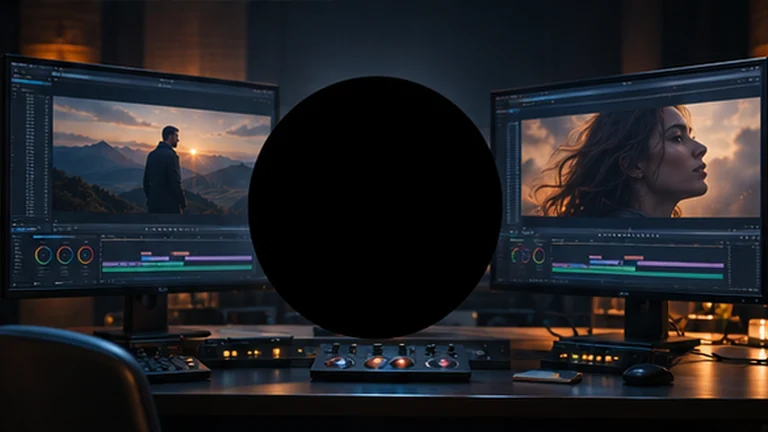
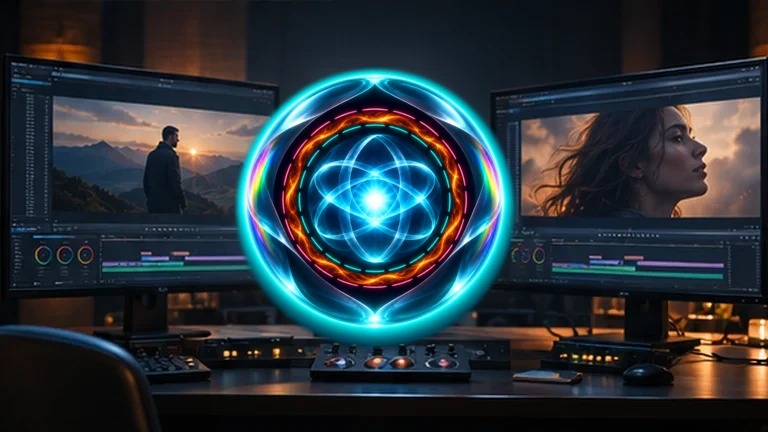
release(Studio): restore YouTube cover and fit Director sphere

Changed region(s): [[0.2812, 0.1505, 0.6875, 0.8125]]

diff --git a/app/src/main/assets/home-inspiration.js b/app/src/main/assets/home-inspiration.js
@@ -464,7 +464,6 @@ function renderQuickStarts(section){
  #homeStudioQuickStarts .quick-start-card:focus-visible{outline:2px solid #c7a0f9;outline-offset:2px}
  #homeStudioQuickStarts .quick-start-thumb{position:relative;aspect-ratio:16/9;min-width:0;min-height:0;overflow:hidden;background:#302447}
  #homeStudioQuickStarts .quick-start-thumb img{display:block;width:100%;height:100%;object-fit:cover}
- #homeStudioQuickStarts .quick-start-thumb .quick-start-orb{position:absolute;inset:48% auto auto 49%;transform:translate(-50%,-50%);width:auto;height:51%;aspect-ratio:1;object-fit:contain;clip-path:circle(49%);mask-image:radial-gradient(circle closest-side,#000 86%,transparent 100%);pointer-events:none}
  #homeStudioQuickStarts .quick-start-body{display:grid;gap:8px;min-width:0;padding:18px;overflow-wrap:anywhere}
  #homeStudioQuickStarts .quick-start-body strong{font-size:17px}
  #homeStudioQuickStarts .quick-start-body span{font-size:12px;line-height:1.6;color:var(--muted,#c5b9db)}
@@ -478,11 +477,6 @@ function renderQuickStarts(section){
   const image=detailEl('img');
   image.src=src;image.alt='';image.loading='lazy';image.width=768;image.height=432;
   visual.append(image);
-  if(src.endsWith('/jarvix-director.webp')){
-   const orb=detailEl('img','quick-start-orb');
-   orb.src='https://d2ol7oe51mr4n9.cloudfront.net/user_3DohHzQ92OwE6TBQr5M2fYm2CwS/760ea0b9-ba7d-4982-97f2-9bb59a6b0979.png';orb.alt='';orb.loading='lazy';orb.referrerPolicy='no-referrer';
-   visual.append(orb);
-  }
   const body=detailEl('div','quick-start-body');
   body.append(detailEl('strong','',name),detailEl('span','',subtitle));
   control.append(visual,body);

diff --git a/scripts/deepsyq_surgical_publish.py b/scripts/deepsyq_surgical_publish.py
@@ -65,6 +65,7 @@ def approved_new_assets(paths):
     return frozenset()
 
 HASH_REUSE_RELEASE_SETS = (
+    QUICK_START_ART_V3 | {"home-inspiration.js"},
     QUICK_START_V3_RELEASE,
     frozenset({"account-settings.html"}),
     ACCOUNT_AND_DIRECTOR_RELEASE,

diff --git a/docs/DEEPSYQ_ROADMAP.md b/docs/DEEPSYQ_ROADMAP.md
@@ -1,5 +1,11 @@
 # DEEPSYQ ROADMAP — approved next product phase
 
+## 2026-11-14 — Quick Start: восемь обложек 16:9
+
+- Восстановлен предыдущий кадр YouTube с девушкой на мониторе. Адаптация до 768 × 432 сохраняет пропорции логотипа и лица.
+- В обложку JARVIX Director встроена существующая сфера JARVIX по центру чёрного круга. Семь выбранных сюжетов сохранены, включая студию Director. Тексты и действия карточек сохранены.
+- Точечный выпуск включает восемь обложек и `home-inspiration.js`. Подтверждение публикации фиксируется после проверки Cloudflare и рабочего сайта.
+
 ## 2026-11-13 — JARVIX-IMAGE-BG-01 — REMOVE BACKGROUND TO EXISTING CHAT
 
 - **Scope:** ровно одно действие в существующем просмотре сгенерированного изображения на `jarvix-chat.html`: по нажатию «Удалить фон» прикрепить именно выбранную фотографию, установить локализованный текст «Удали фон с этой фотографии», отправить существующей формой JARVIX Chat; без нового окна чата или Canvas и без изменений остальных кнопок.

diff --git a/docs/DEEPSYQ_WORK_LOG.md b/docs/DEEPSYQ_WORK_LOG.md
@@ -1,5 +1,11 @@
 # DEEPSYQ — журнал работ и проверок
 
+## 2026-11-14 — Quick Start: восемь обложек 16:9
+
+- Восстановлен предыдущий кадр YouTube с девушкой на мониторе. Адаптация до 768 × 432 сохраняет пропорции логотипа и лица.
+- В обложку JARVIX Director встроена существующая сфера JARVIX по центру чёрного круга. Семь выбранных сюжетов сохранены, включая студию Director. Тексты и действия карточек сохранены.
+- Точечный выпуск включает восемь обложек и `home-inspiration.js`. Подтверждение публикации фиксируется после проверки Cloudflare и рабочего сайта.
+
 Ведётся с 12 ноября 2026, время Парижа. История восстановлена по предыдущим сообщениям, коммитам и проверкам рабочего сайта. Там, где время предыдущего прогона не подтверждено, указан порядок работ без выдуманной даты.
 
 ## Порядок работы
